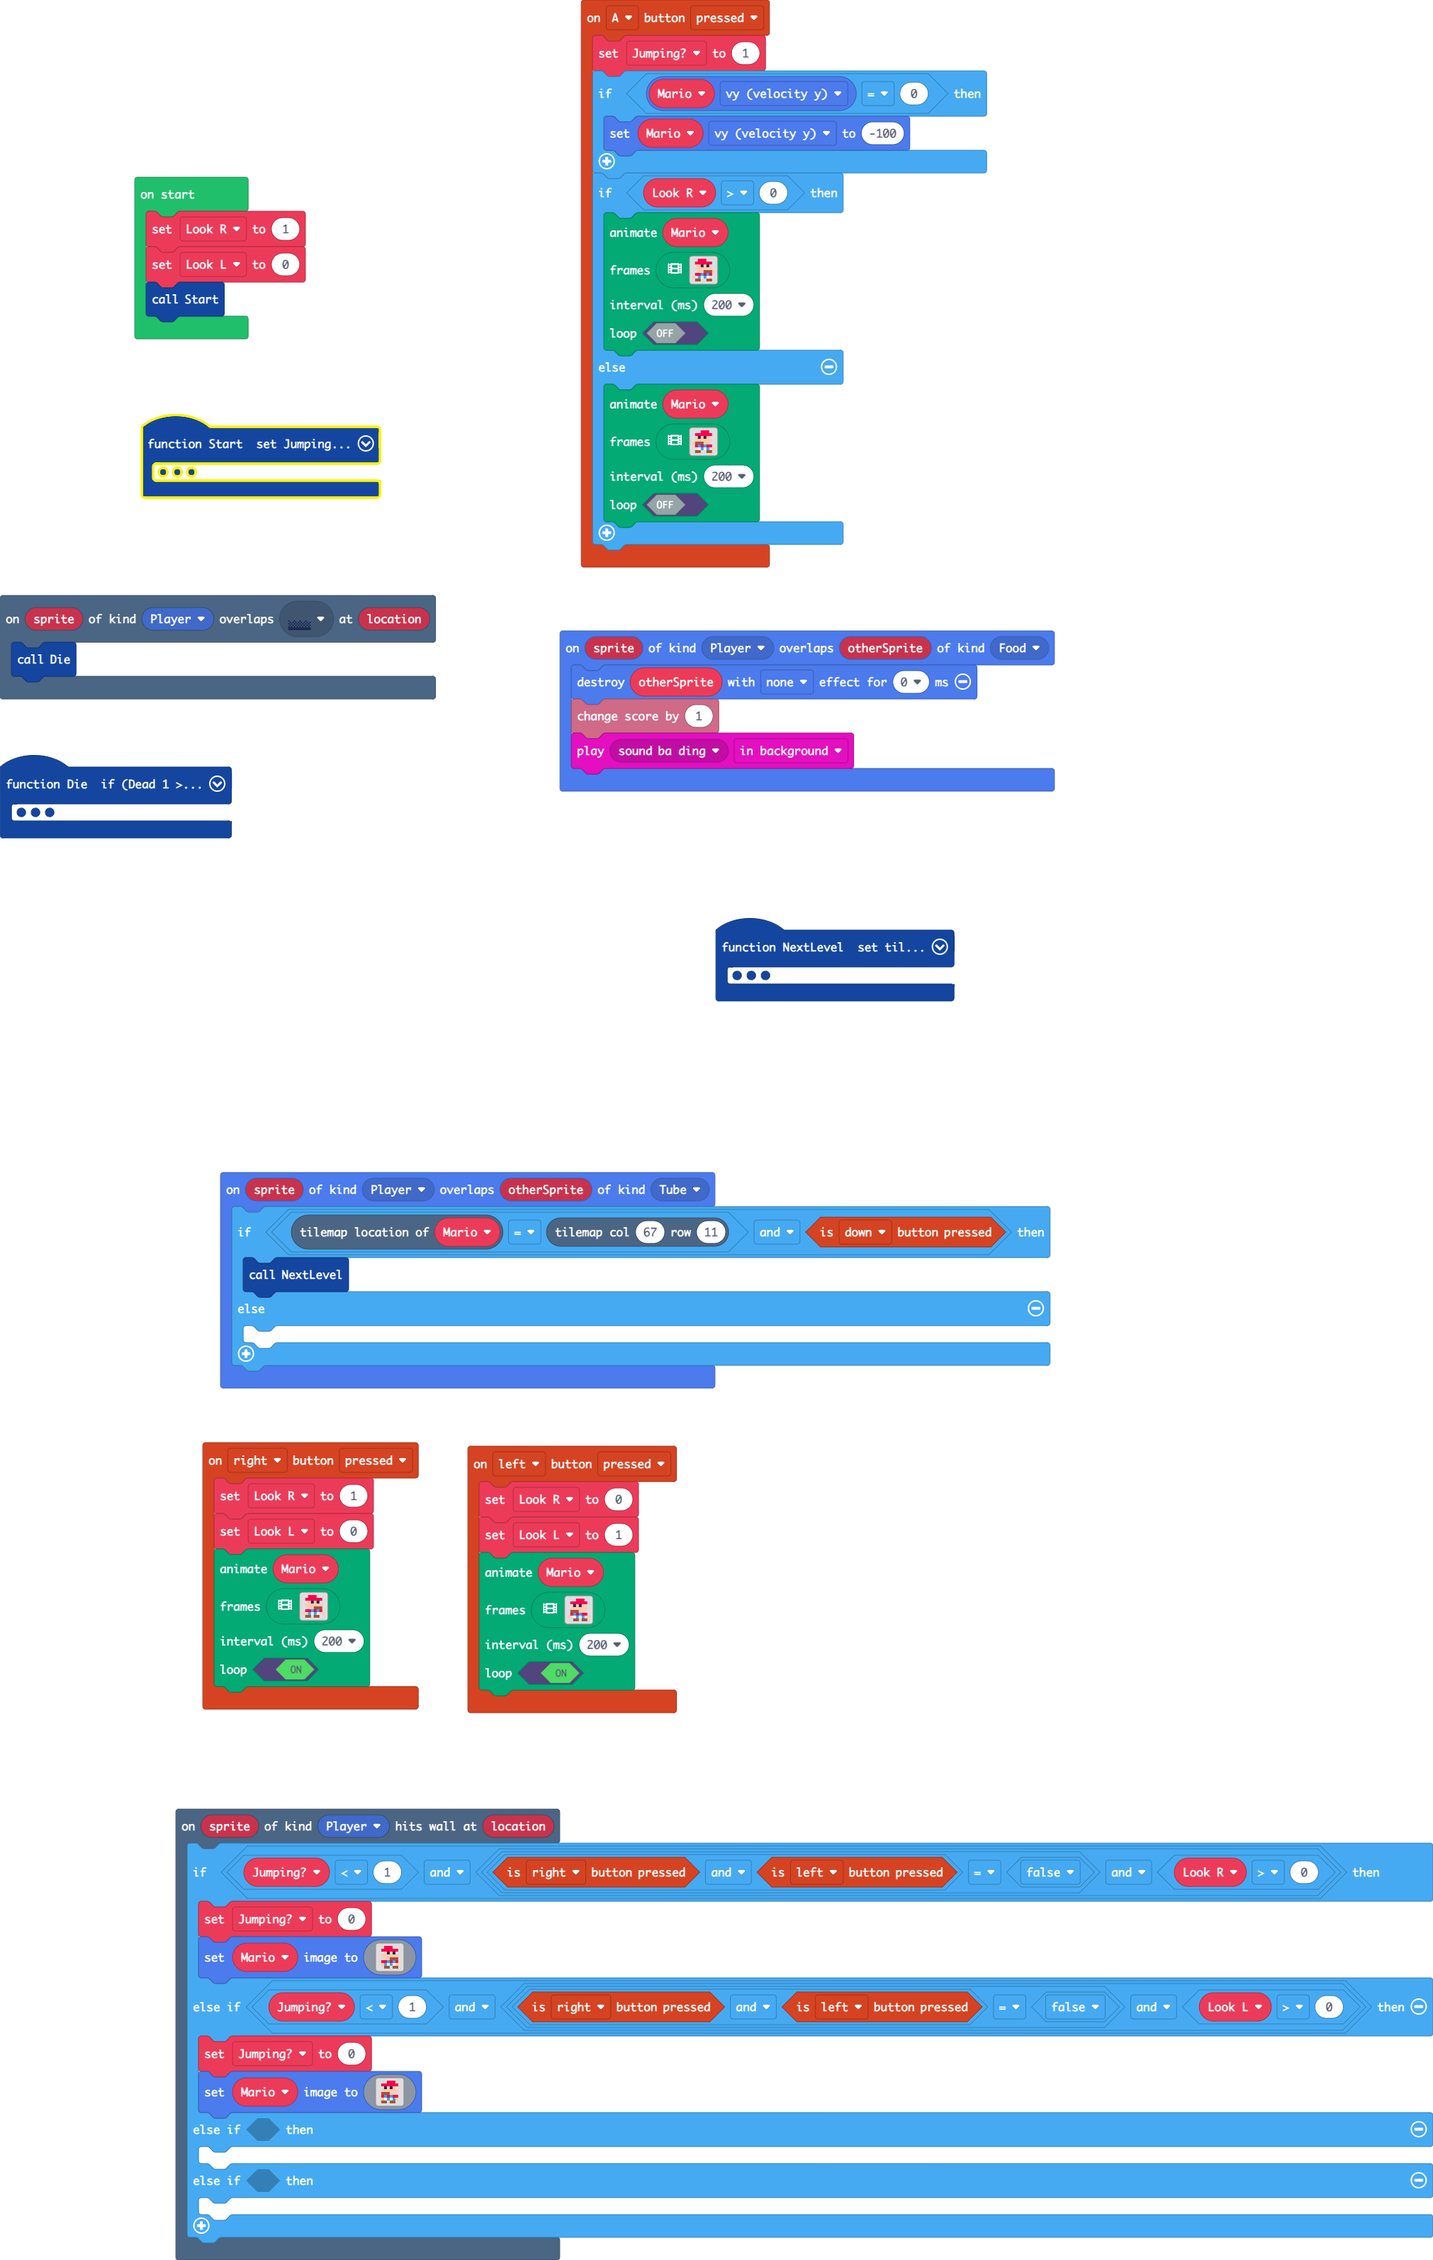
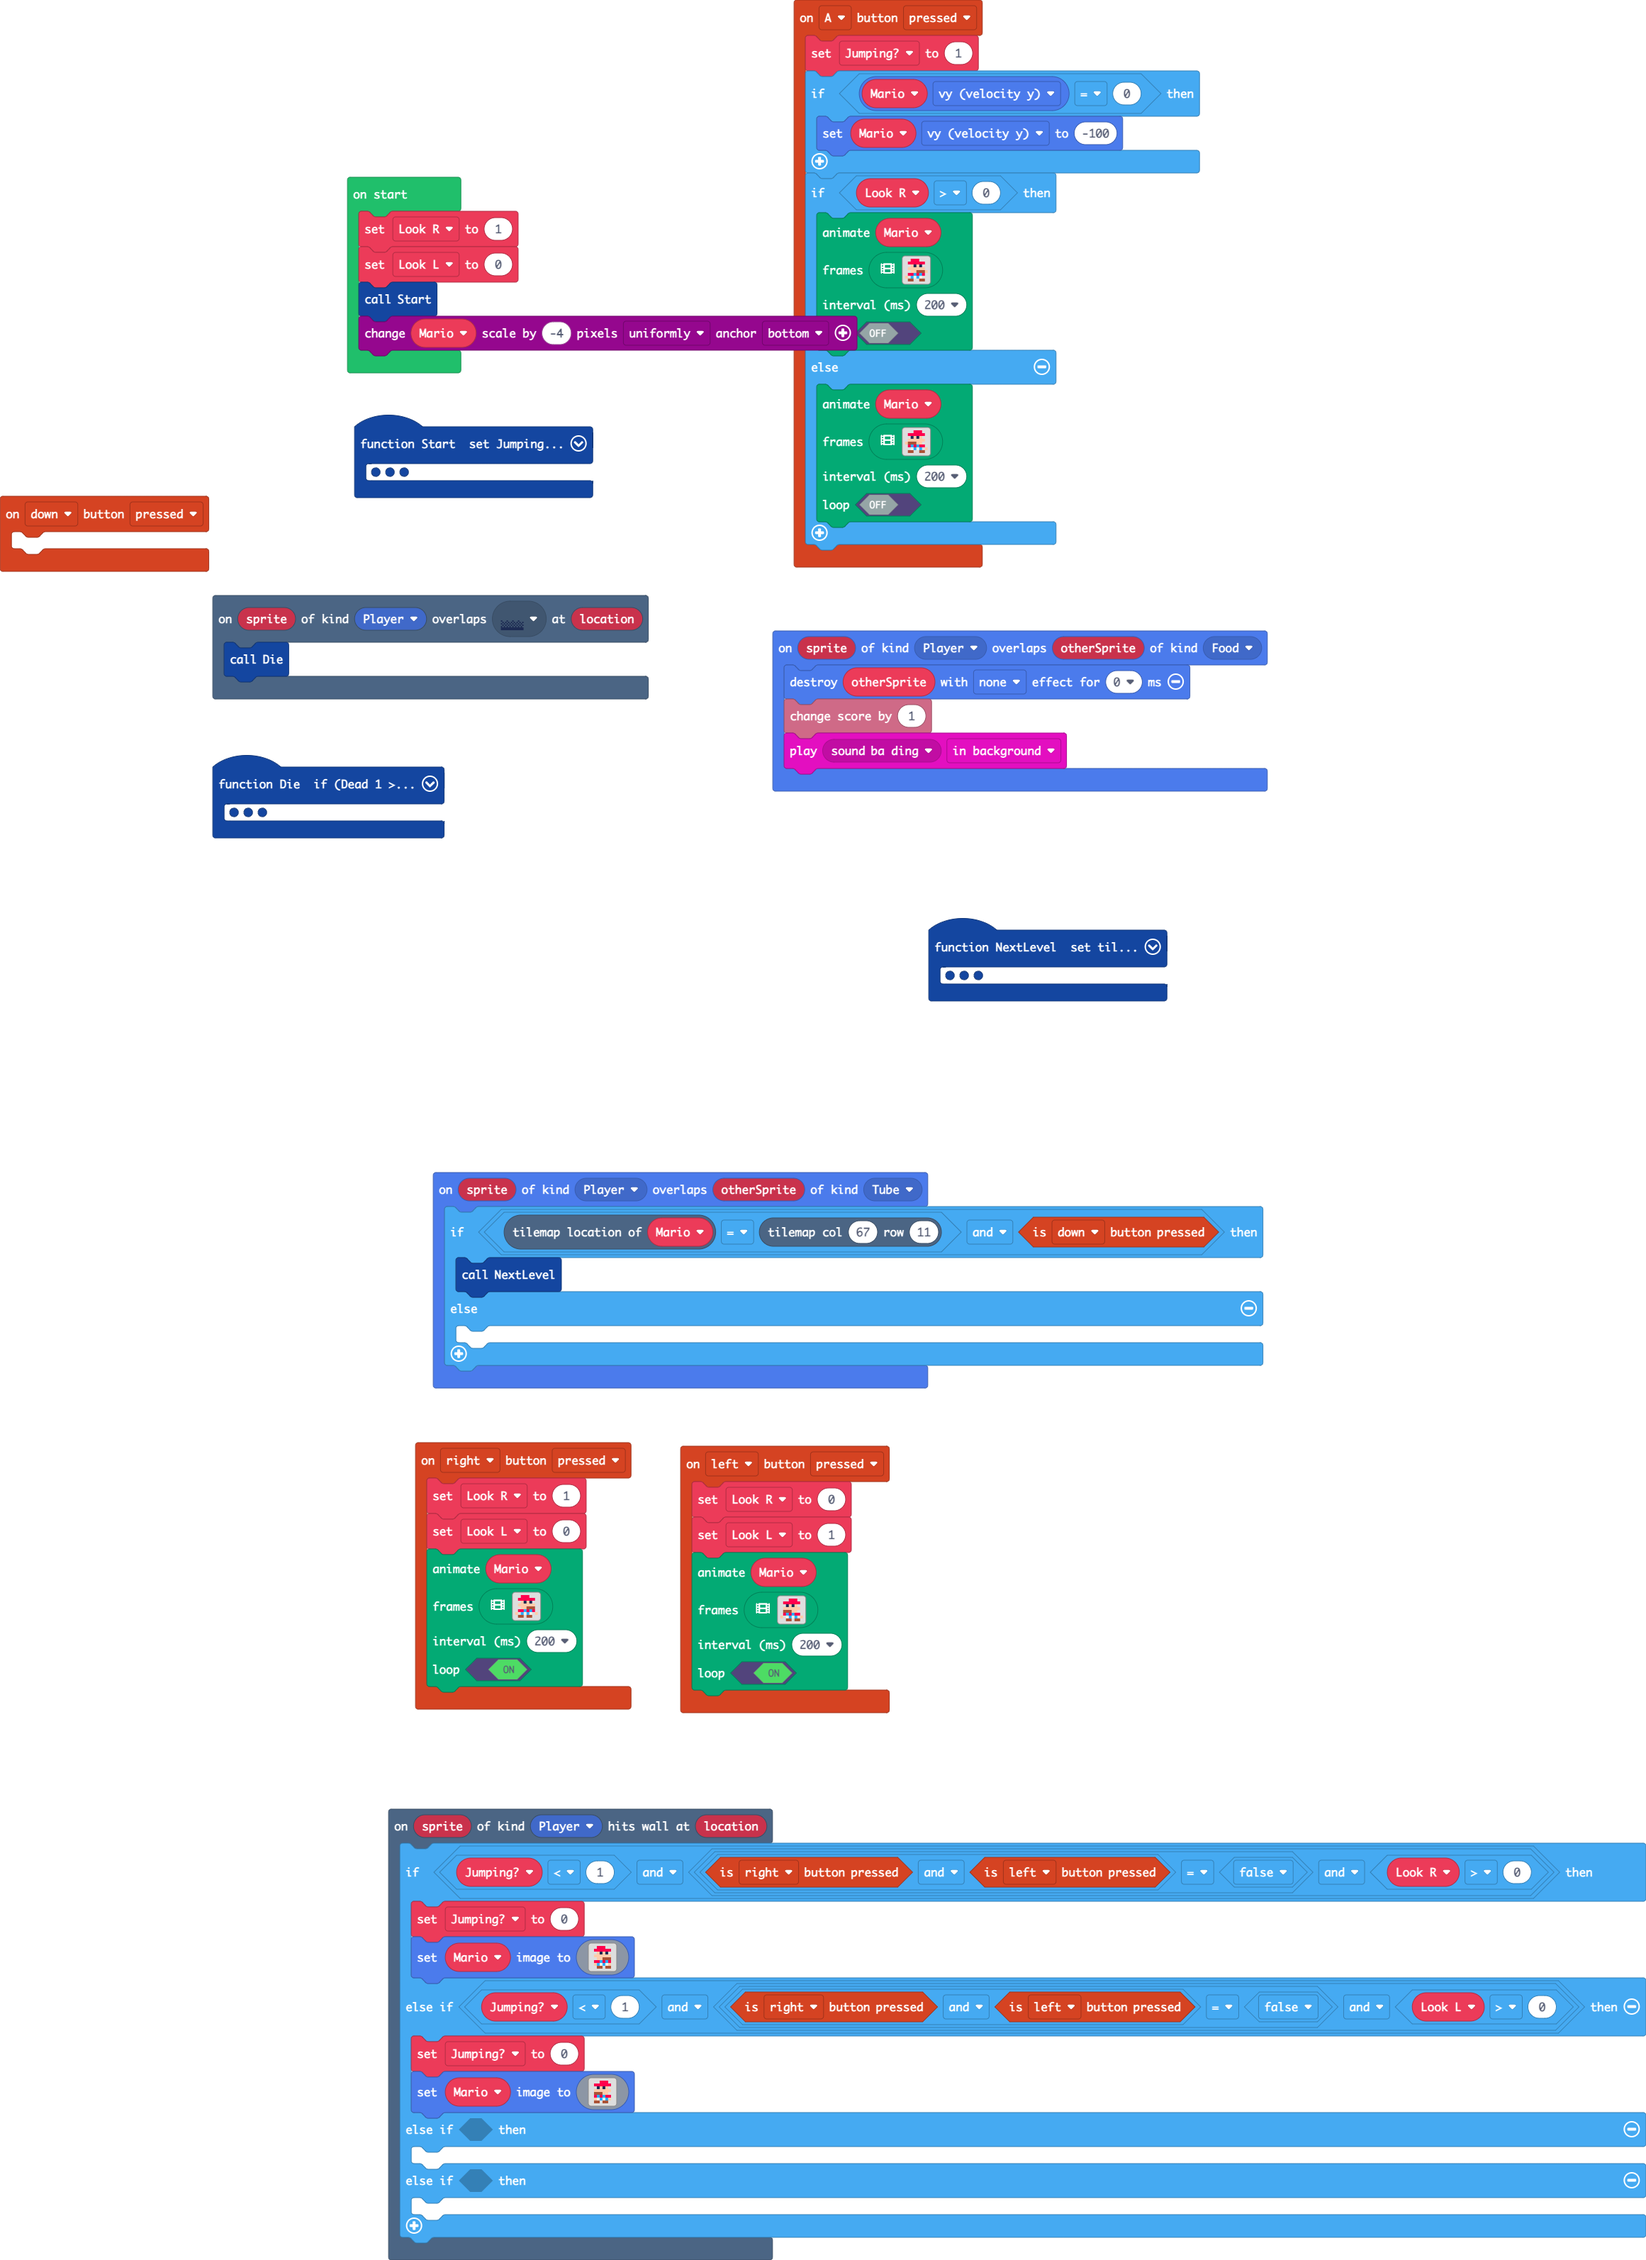
Update pxt.json, main.blocks, main.ts, images.g.jres, images.g.ts

diff --git a/images.g.ts b/images.g.ts
@@ -64,6 +64,26 @@ e e e e e e e e e e e e e e c c
 . e e f f f f f f f e e e c c e 
 . e c f f f f f f f e e e c e c 
 `;
+            case "B=X":
+            case "Tube":return img`
+. 1 1 1 f f f f f f f f 7 7 7 . 
+1 1 1 7 7 7 7 7 7 7 7 7 7 7 7 6 
+1 1 7 7 7 7 7 7 7 7 7 7 7 7 7 6 
+1 7 7 7 7 7 7 7 7 7 7 7 7 7 6 6 
+. 1 7 7 7 7 7 7 7 7 7 7 7 6 6 . 
+. . 6 6 6 6 6 6 6 6 6 6 6 6 . . 
+. . . 1 7 1 7 7 7 7 6 7 6 . . . 
+. . . 1 1 7 7 7 7 7 7 6 6 . . . 
+. . . 1 7 1 7 7 7 7 6 7 6 . . . 
+. . . 1 1 7 7 7 7 7 7 6 6 . . . 
+. . . 1 7 1 7 7 7 7 6 7 6 . . . 
+. . . 1 1 7 7 7 7 7 7 6 6 . . . 
+. . . 1 7 1 7 7 7 7 6 7 6 . . . 
+. . . 1 1 7 7 7 7 7 7 6 6 . . . 
+. . . 1 7 1 7 7 7 7 6 7 6 . . . 
+. . . 1 1 7 7 7 7 7 7 6 6 . . . 
+. . . 1 7 1 7 7 7 7 6 7 6 . . . 
+`;
         }
         return null;
     })
@@ -730,6 +750,28 @@ a 9 9 9 9 9 9 9 9 9 9 9 9 9 9 a
 a 9 9 9 9 9 9 9 9 9 9 9 9 9 9 a 
 c c c c c c c c c c c c c c c c 
 `];
+            case "Mario Crouch0":
+            case "anim10":return [img`
+. . . . . . . . 
+. . . . . . . . 
+. . 2 2 2 . . . 
+. 2 2 2 2 2 2 . 
+. d 2 2 d d d 2 
+. . 4 d e e e d 
+. 2 8 1 8 1 2 . 
+. . e e . e e . 
+`];
+            case "Mario Crouch":
+            case "anim9":return [img`
+. . . . . . . . 
+. . . . . . . . 
+. . . 2 2 2 . . 
+. 2 2 2 2 2 2 . 
+2 d d d 2 2 d . 
+d e e e d 4 . . 
+. 2 1 8 1 8 2 . 
+. e e . e e . . 
+`];
         }
         return null;
     })
@@ -742,10 +784,10 @@ c c c c c c c c c c c c c c c c
[1 lines of base64/hex data omitted]
             case "song2":
[1 lines of base64/hex data omitted]
-            case "song3":
[1 lines of base64/hex data omitted]
             case "song5":
[1 lines of base64/hex data omitted]
+            case "song3":
[1 lines of base64/hex data omitted]
         }
         return null;
     })

diff --git a/main.ts b/main.ts
@@ -206,25 +206,7 @@ function Start () {
         )
     }
     for (let value of tiles.getTilesByType(assets.tile`myTile1`)) {
-        Tube = sprites.create(img`
-            . 1 1 1 f f f f f f f f 7 7 7 . 
-            1 1 1 7 7 7 7 7 7 7 7 7 7 7 7 6 
-            1 1 7 7 7 7 7 7 7 7 7 7 7 7 7 6 
-            1 7 7 7 7 7 7 7 7 7 7 7 7 7 6 6 
-            . 1 7 7 7 7 7 7 7 7 7 7 7 6 6 . 
-            . . 6 6 6 6 6 6 6 6 6 6 6 6 . . 
-            . . . 1 7 1 7 7 7 7 6 7 6 . . . 
-            . . . 1 1 7 7 7 7 7 7 6 6 . . . 
-            . . . 1 7 1 7 7 7 7 6 7 6 . . . 
-            . . . 1 1 7 7 7 7 7 7 6 6 . . . 
-            . . . 1 7 1 7 7 7 7 6 7 6 . . . 
-            . . . 1 1 7 7 7 7 7 7 6 6 . . . 
-            . . . 1 7 1 7 7 7 7 6 7 6 . . . 
-            . . . 1 1 7 7 7 7 7 7 6 6 . . . 
-            . . . 1 7 1 7 7 7 7 6 7 6 . . . 
-            . . . 1 1 7 7 7 7 7 7 6 6 . . . 
-            . . . 1 7 1 7 7 7 7 6 7 6 . . . 
-            `, SpriteKind.Tube)
+        Tube = sprites.create(assets.image`Tube`, SpriteKind.Tube)
         tiles.placeOnTile(Tube, value)
         tiles.setTileAt(value, assets.tile`transparency16`)
     }
@@ -290,6 +272,9 @@ function NextLevel () {
     tiles.placeOnTile(Mario, tiles.getTileLocation(0, 14))
     scene.cameraFollowSprite(Mario)
 }
+controller.down.onEvent(ControllerButtonEvent.Pressed, function () {
+	
+})
 sprites.onOverlap(SpriteKind.Player, SpriteKind.Food, function (sprite, otherSprite) {
     sprites.destroy(otherSprite, effects.none, 0)
     info.changeScoreBy(1)
@@ -300,10 +285,11 @@ let coins: Sprite = null
 let Tube: Sprite = null
 let _Block: Sprite = null
 let Dead = 0
-let Mario: Sprite = null
 let Jumping = 0
+let Mario: Sprite = null
 let Look_L = 0
 let Look_R = 0
 Look_R = 1
 Look_L = 0
 Start()
+scaling.scaleByPixels(Mario, -4, ScaleDirection.Uniformly, ScaleAnchor.Bottom)
